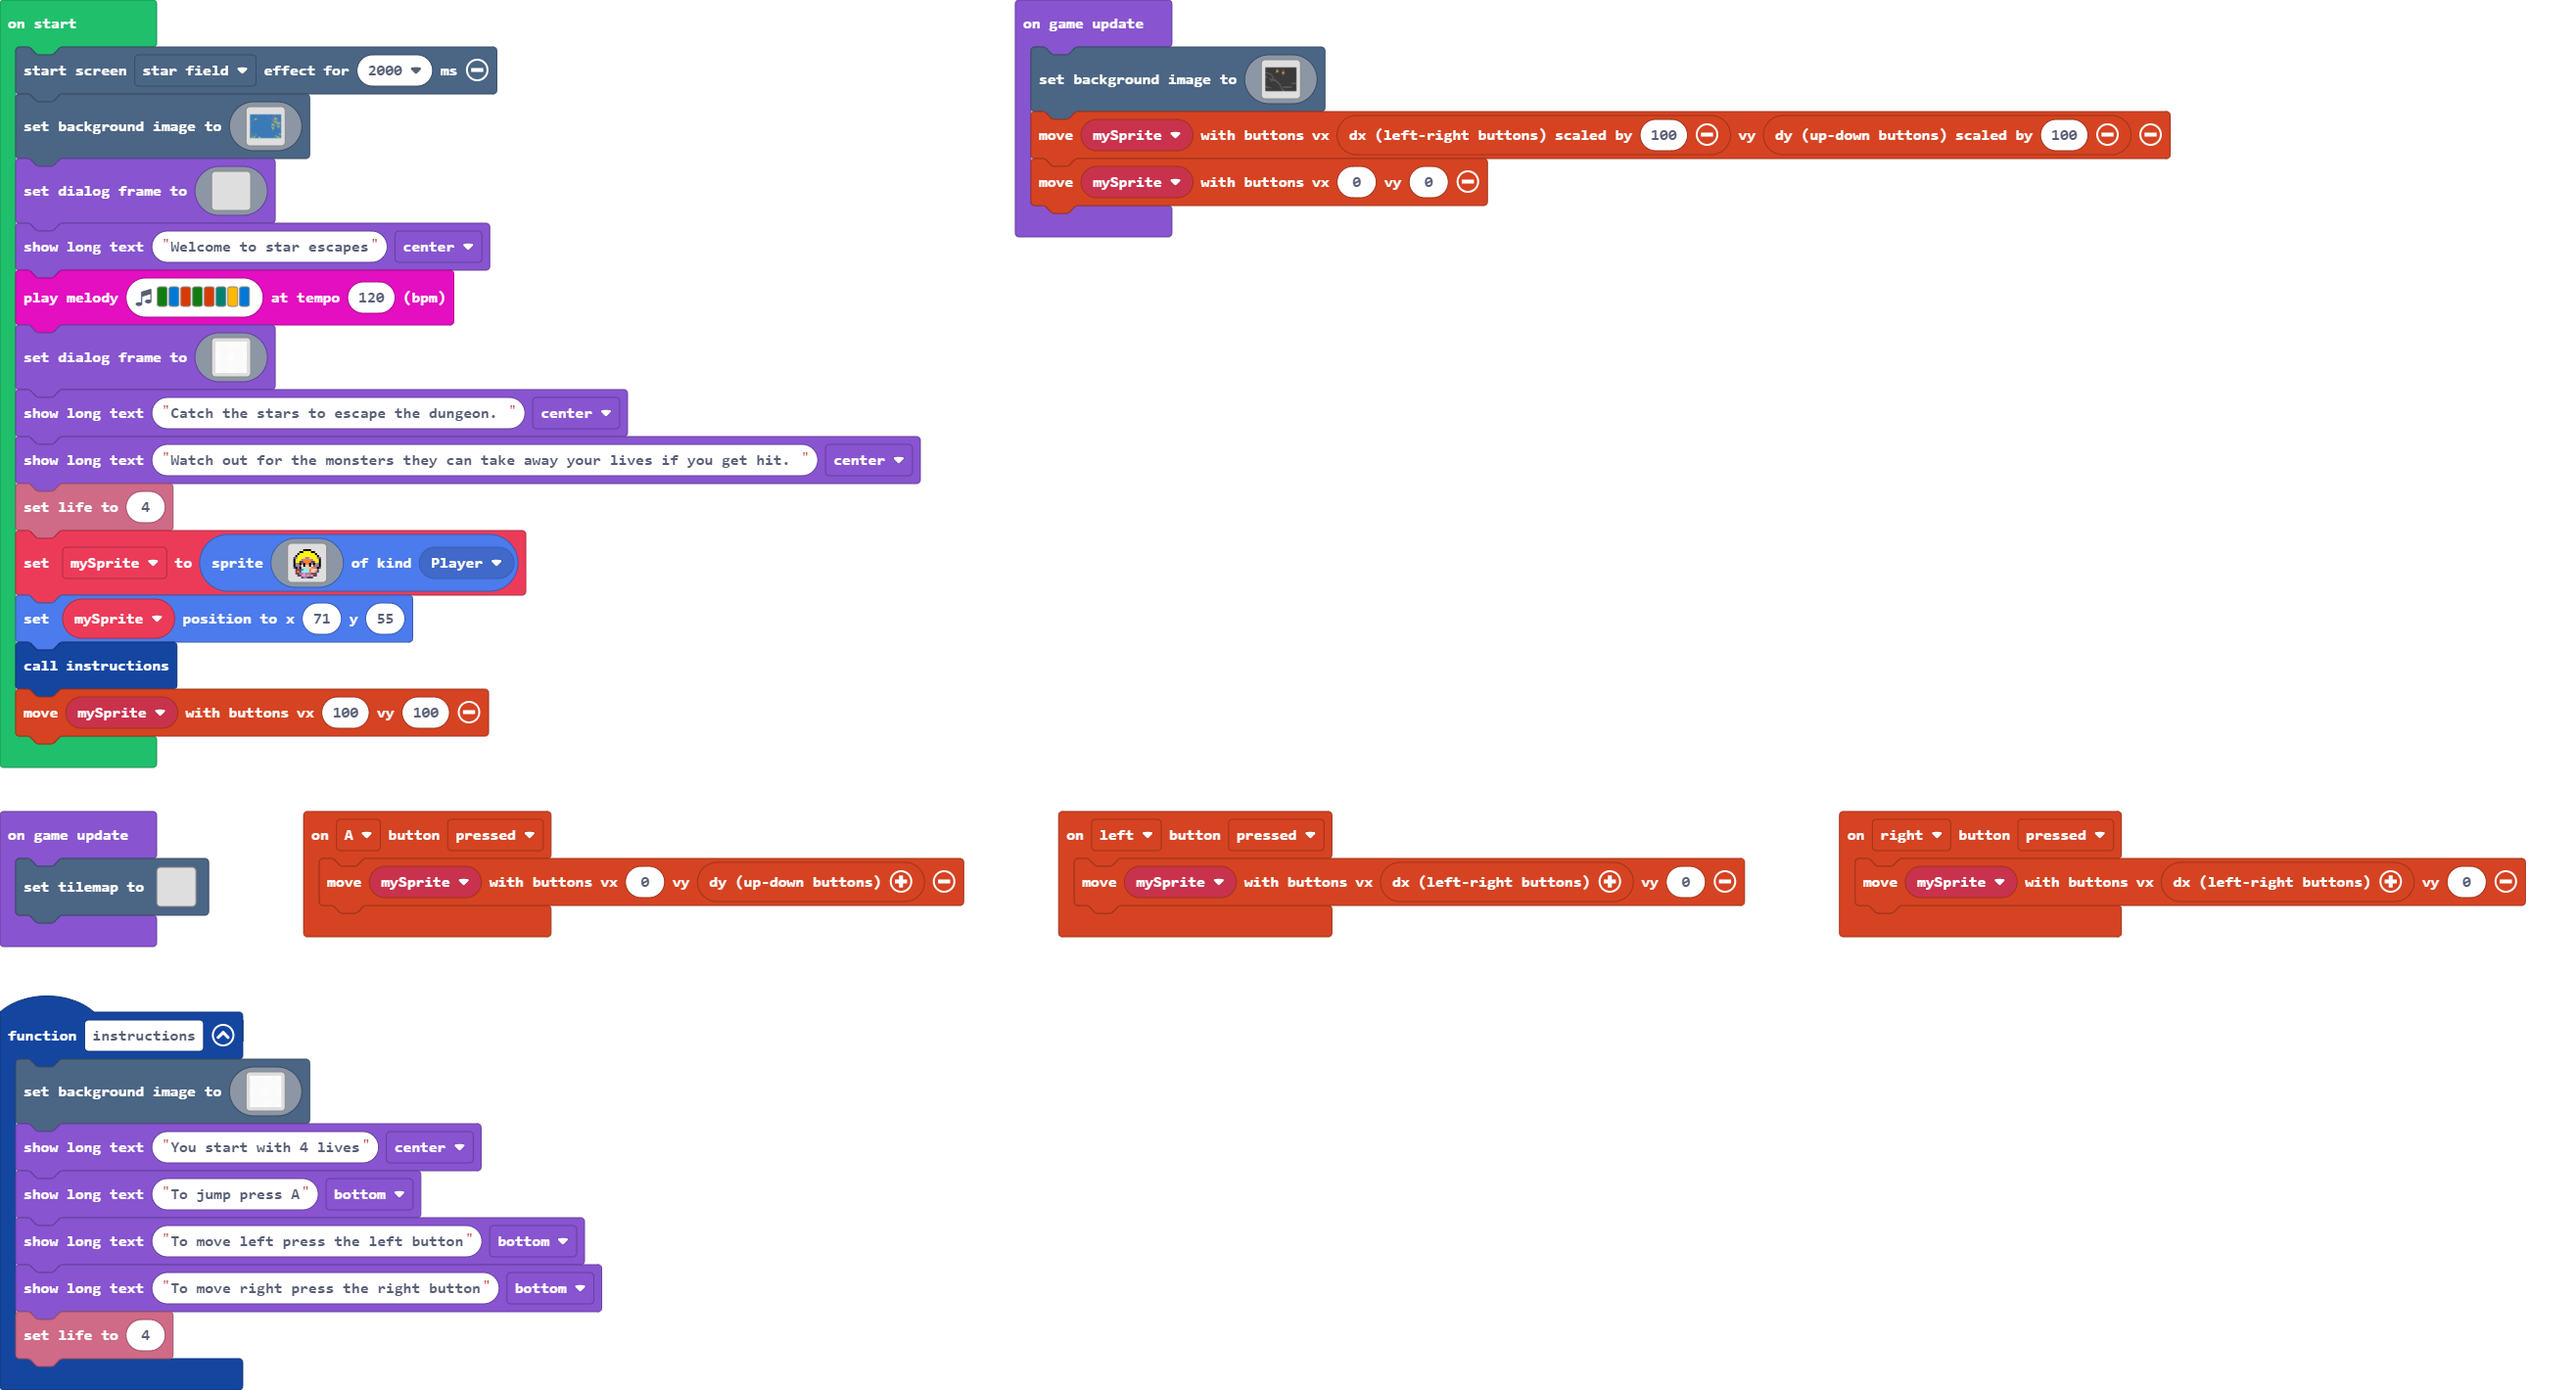
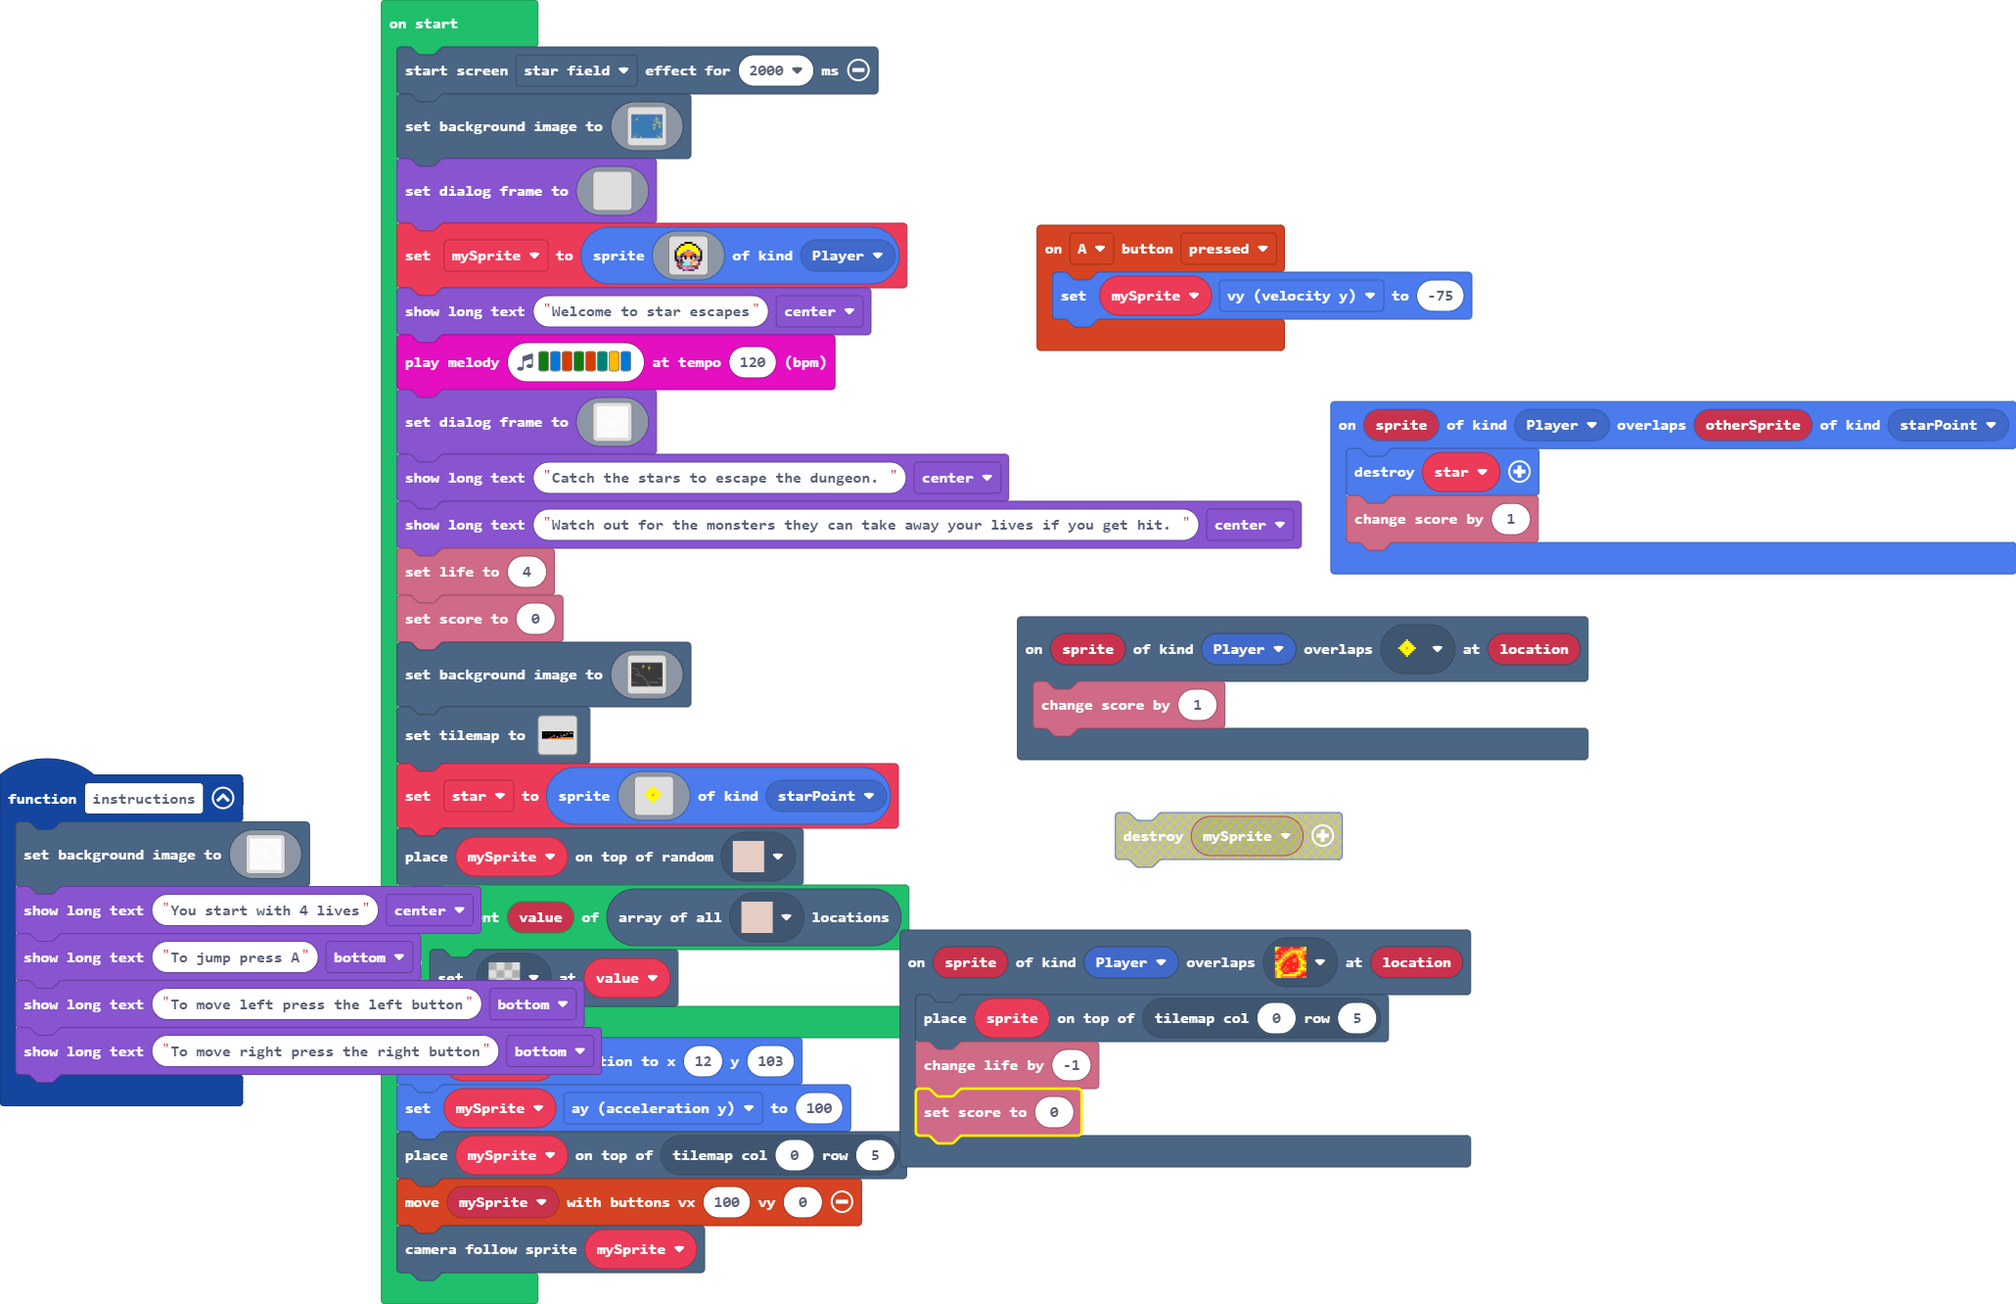
Update pxt.json, main.blocks, main.ts, main.py, tilemap.g.jres, tilemap.g.ts

diff --git a/tilemap.g.ts b/tilemap.g.ts
@@ -1,11 +1,94 @@
 // Auto-generated code. Do not edit.
 namespace myTiles {
     //% fixedInstance jres blockIdentity=images._tile
+    export const tile1 = image.ofBuffer(hex``);
+    //% fixedInstance jres blockIdentity=images._tile
+    export const tile2 = image.ofBuffer(hex``);
+    //% fixedInstance jres blockIdentity=images._tile
+    export const tile3 = image.ofBuffer(hex``);
+    //% fixedInstance jres blockIdentity=images._tile
+    export const tile4 = image.ofBuffer(hex``);
+    //% fixedInstance jres blockIdentity=images._tile
+    export const tile5 = image.ofBuffer(hex``);
+    //% fixedInstance jres blockIdentity=images._tile
+    export const tile6 = image.ofBuffer(hex``);
+    //% fixedInstance jres blockIdentity=images._tile
+    export const tile7 = image.ofBuffer(hex``);
+    //% fixedInstance jres blockIdentity=images._tile
+    export const tile8 = image.ofBuffer(hex``);
+    //% fixedInstance jres blockIdentity=images._tile
+    export const tile9 = image.ofBuffer(hex``);
+    //% fixedInstance jres blockIdentity=images._tile
+    export const tile10 = image.ofBuffer(hex``);
+    //% fixedInstance jres blockIdentity=images._tile
+    export const tile11 = image.ofBuffer(hex``);
+    //% fixedInstance jres blockIdentity=images._tile
+    export const tile12 = image.ofBuffer(hex``);
+    //% fixedInstance jres blockIdentity=images._tile
+    export const tile13 = image.ofBuffer(hex``);
+    //% fixedInstance jres blockIdentity=images._tile
     export const transparency16 = image.ofBuffer(hex``);
+    //% fixedInstance jres blockIdentity=images._tile
+    export const tile14 = image.ofBuffer(hex``);
+    //% fixedInstance jres blockIdentity=images._tile
+    export const tile15 = image.ofBuffer(hex``);
+
+    helpers._registerFactory("tilemap", function(name: string) {
+        switch(helpers.stringTrim(name)) {
+            case "level1":
+            case "level1":return tiles.createTilemap(hex`1000100000000000000000000000000000000000000000000000000000000000000000000000000000000000000000000000000000000000000000000000000000000000000000000000000000000000000000000000000000000000000000000000000000000000000000000000000000000000000000000000000000000000000000000000000000000000000000000000000000000000000000000000000000000000000000000000000000000000000000000000000000000000000000000000000000000000000000000000000000000000000000000000000000000000000000000000000000000000000000000000000000000000000000000000000000000000`, img`
+. . . . . . . . . . . . . . . . 
+. . . . . . . . . . . . . . . . 
+. . . . . . . . . . . . . . . . 
+. . . . . . . . . . . . . . . . 
+. . . . . . . . . . . . . . . . 
+. . . . . . . . . . . . . . . . 
+. . . . . . . . . . . . . . . . 
+. . . . . . . . . . . . . . . . 
+. . . . . . . . . . . . . . . . 
+. . . . . . . . . . . . . . . . 
+. . . . . . . . . . . . . . . . 
+. . . . . . . . . . . . . . . . 
+. . . . . . . . . . . . . . . . 
+. . . . . . . . . . . . . . . . 
+. . . . . . . . . . . . . . . . 
+. . . . . . . . . . . . . . . . 
+`, [], -Infinity);
+            case "level0":
+            case "level2":return tiles.createTilemap(hex`2000080001010101010101010101010101010101010101010101040101010404010101010101010101010101010101010101010101010101010101010101010101050101010101010401010401010101010101010101040101010101010601020202020201010101010101010101010401010101010101010101050101020101010101010101010101010101010101010601010101010106010202020201010101010101010101010101010101020202020101050101010202010101010101010101010101010101010101020202010101010202020202030303030303030303030303030202020202020303030303030303030303030303030303030303030303030303`, img`
+. . . . . . . . . . . . . . . . . . . . . . . . . . . . . . . . 
+. . . . . . . . . . . . . . . . . . . . . . . . . . . . . . . . 
+. . . . . . . . . . . . . . . . . . . . . . . . . . . 2 2 2 2 2 
+. . . . . . . . . . . . . . . . . . . . . . . . . 2 . . . . . . 
+. . . . . . . . . . . . . . . . . . . . . 2 2 2 2 . . . . . . . 
+. . . . . . . . . 2 2 2 2 . . . . . . 2 2 . . . . . . . . . . . 
+. . . . . . . 2 2 2 . . . . 2 2 2 2 2 . . . . . . . . . . . . . 
+2 2 2 2 2 2 . . . . . . . . . . . . . . . . . . . . . . . . . . 
+`, [myTiles.transparency16,sprites.builtin.forestTiles10,sprites.dungeon.darkGroundNorth,sprites.dungeon.hazardLava0,sprites.swamp.swampTile9,myTiles.tile14,myTiles.tile15], TileScale.Sixteen);
+        }
+        return null;
+    })
 
     helpers._registerFactory("tile", function(name: string) {
         switch(helpers.stringTrim(name)) {
+            case "tile1":return tile1;
+            case "tile2":return tile2;
+            case "tile3":return tile3;
+            case "tile4":return tile4;
+            case "tile5":return tile5;
+            case "tile6":return tile6;
+            case "tile7":return tile7;
+            case "tile8":return tile8;
+            case "tile9":return tile9;
+            case "tile10":return tile10;
+            case "tile11":return tile11;
+            case "tile12":return tile12;
+            case "tile13":return tile13;
             case "transparency16":return transparency16;
+            case "myTile":
+            case "tile14":return tile14;
+            case "myTile0":
+            case "tile15":return tile15;
         }
         return null;
     })

diff --git a/main.ts b/main.ts
@@ -1,20 +1,29 @@
+namespace SpriteKind {
+    export const starPoint = SpriteKind.create()
+}
 function instructions () {
     scene.setBackgroundImage(assets.image`dia background`)
     game.showLongText("You start with 4 lives", DialogLayout.Center)
     game.showLongText("To jump press A", DialogLayout.Bottom)
     game.showLongText("To move left press the left button", DialogLayout.Bottom)
     game.showLongText("To move right press the right button", DialogLayout.Bottom)
-    info.setLife(4)
 }
+scene.onOverlapTile(SpriteKind.Player, assets.tile`myTile`, function (sprite, location) {
+    info.changeScoreBy(1)
+})
 controller.A.onEvent(ControllerButtonEvent.Pressed, function () {
-    controller.moveSprite(mySprite, 0, controller.dy())
+    mySprite.vy = -75
 })
-controller.left.onEvent(ControllerButtonEvent.Pressed, function () {
-    controller.moveSprite(mySprite, controller.dx(), 0)
+scene.onOverlapTile(SpriteKind.Player, sprites.dungeon.hazardLava0, function (sprite, location) {
+    tiles.placeOnTile(sprite, tiles.getTileLocation(0, 5))
+    info.changeLifeBy(-1)
+    info.setScore(0)
 })
-controller.right.onEvent(ControllerButtonEvent.Pressed, function () {
-    controller.moveSprite(mySprite, controller.dx(), 0)
+sprites.onOverlap(SpriteKind.Player, SpriteKind.starPoint, function (sprite, otherSprite) {
+    star.destroy()
+    info.changeScoreBy(1)
 })
+let star: Sprite = null
 let mySprite: Sprite = null
 effects.starField.startScreenEffect(2000)
 scene.setBackgroundImage(img`
@@ -156,12 +165,6 @@ game.setDialogFrame(img`
     . . . . . . . . . . . . . . . 
     . . . . . . . . . . . . . . . 
     `)
-game.showLongText("Welcome to star escapes", DialogLayout.Center)
-music.playMelody("G E B G B F A E ", 120)
-game.setDialogFrame(assets.image`dia background`)
-game.showLongText("Catch the stars to escape the dungeon. ", DialogLayout.Center)
-game.showLongText("Watch out for the monsters they can take away your lives if you get hit. ", DialogLayout.Center)
-info.setLife(4)
 mySprite = sprites.create(img`
     . . . . . . . . . . . . . . 
     . . . . . f f f f . . . . . 
@@ -180,14 +183,39 @@ mySprite = sprites.create(img`
     . . c c 3 3 b 3 b 3 c c . . 
     . . . . c b b c c c . . . . 
     `, SpriteKind.Player)
-mySprite.setPosition(71, 55)
-instructions()
-controller.moveSprite(mySprite, 100, 100)
-game.onUpdate(function () {
-    scene.setBackgroundImage(assets.image`Background 1`)
-    controller.moveSprite(mySprite, controller.dx(100), controller.dy(100))
-    controller.moveSprite(mySprite, 0, 0)
-})
-game.onUpdate(function () {
-    tiles.setTilemap(tilemap`level1`)
-})
+game.showLongText("Welcome to star escapes", DialogLayout.Center)
+music.playMelody("G E B G B F A E ", 120)
+game.setDialogFrame(assets.image`dia background`)
+game.showLongText("Catch the stars to escape the dungeon. ", DialogLayout.Center)
+game.showLongText("Watch out for the monsters they can take away your lives if you get hit. ", DialogLayout.Center)
+info.setLife(4)
+info.setScore(0)
+scene.setBackgroundImage(assets.image`Background 1`)
+tiles.setTilemap(tilemap`level0`)
+star = sprites.create(img`
+    . . . . . . . . . . . . . . . . 
+    . . . . . . . . . . . . . . . . 
+    . . . . . . . . . . . . . . . . 
+    . . . . . . . 5 . . . . . . . . 
+    . . . . . . 5 5 5 . . . . . . . 
+    . . . . . 5 5 5 5 5 . . . . . . 
+    . . . . 5 5 5 5 5 5 5 . . . . . 
+    . . . 5 5 5 5 4 5 5 5 5 . . . . 
+    . . . . 5 5 5 5 5 5 5 . . . . . 
+    . . . . . 5 5 5 5 5 . . . . . . 
+    . . . . . . 5 5 5 . . . . . . . 
+    . . . . . . . 5 . . . . . . . . 
+    . . . . . . . . . . . . . . . . 
+    . . . . . . . . . . . . . . . . 
+    . . . . . . . . . . . . . . . . 
+    . . . . . . . . . . . . . . . . 
+    `, SpriteKind.starPoint)
+tiles.placeOnRandomTile(mySprite, assets.tile`myTile0`)
+for (let value of tiles.getTilesByType(assets.tile`myTile0`)) {
+    tiles.setTileAt(value, assets.tile`transparency16`)
+}
+mySprite.setPosition(12, 103)
+mySprite.ay = 100
+tiles.placeOnTile(mySprite, tiles.getTileLocation(0, 5))
+controller.moveSprite(mySprite, 100, 0)
+scene.cameraFollowSprite(mySprite)

diff --git a/main.py b/main.py
@@ -6,19 +6,17 @@ def instructions():
     game.show_long_text("To jump press A", DialogLayout.BOTTOM)
     game.show_long_text("To move left press the left button", DialogLayout.BOTTOM)
     game.show_long_text("To move right press the right button", DialogLayout.BOTTOM)
-    info.set_life(4)
 
 def on_a_pressed():
-    controller.move_sprite(mySprite, 0, controller.dy())
+    mySprite.vy = -75
 controller.A.on_event(ControllerButtonEvent.PRESSED, on_a_pressed)
 
-def on_left_pressed():
-    controller.move_sprite(mySprite, controller.dx(), 0)
-controller.left.on_event(ControllerButtonEvent.PRESSED, on_left_pressed)
-
-def on_right_pressed():
-    controller.move_sprite(mySprite, controller.dx(), 0)
-controller.right.on_event(ControllerButtonEvent.PRESSED, on_right_pressed)
+def on_overlap_tile(sprite, location):
+    tiles.place_on_tile(sprite, tiles.get_tile_location(0, 5))
+    info.change_life_by(-1)
+scene.on_overlap_tile(SpriteKind.player,
+    sprites.dungeon.hazard_lava1,
+    on_overlap_tile)
 
 mySprite: Sprite = None
 effects.star_field.start_screen_effect(2000)
@@ -170,7 +168,6 @@ game.show_long_text("Catch the stars to escape the dungeon. ",
     DialogLayout.CENTER)
 game.show_long_text("Watch out for the monsters they can take away your lives if you get hit. ",
     DialogLayout.CENTER)
-info.set_life(4)
 mySprite = sprites.create(img("""
         . . . . . . . . . . . . . . 
             . . . . . f f f f . . . . . 
@@ -190,20 +187,14 @@ mySprite = sprites.create(img("""
             . . . . c b b c c c . . . .
     """),
     SpriteKind.player)
-mySprite.set_position(71, 55)
-instructions()
-controller.move_sprite(mySprite, 100, 100)
-
-def on_on_update():
-    scene.set_background_image(assets.image("""
-        Background 1
-    """))
-    controller.move_sprite(mySprite, controller.dx(100), controller.dy(100))
-    controller.move_sprite(mySprite, 0, 0)
-game.on_update(on_on_update)
-
-def on_on_update2():
-    tiles.set_tilemap(tilemap("""
-        level1
-    """))
-game.on_update(on_on_update2)
+mySprite.set_position(12, 103)
+controller.move_sprite(mySprite, 100, 0)
+info.set_life(4)
+scene.set_background_image(assets.image("""
+    Background 1
+"""))
+tiles.set_tilemap(tilemap("""
+    level0
+"""))
+mySprite.ay = 100
+tiles.place_on_tile(mySprite, tiles.get_tile_location(0, 5))
